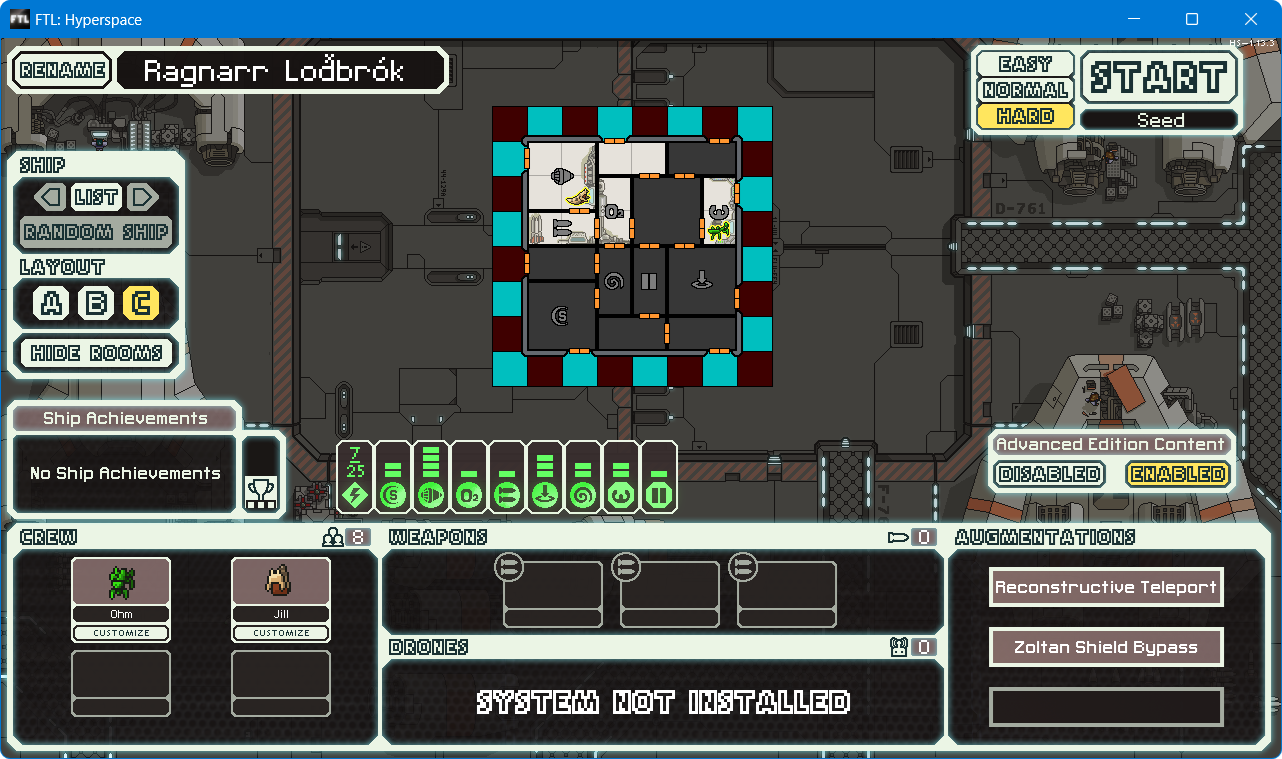
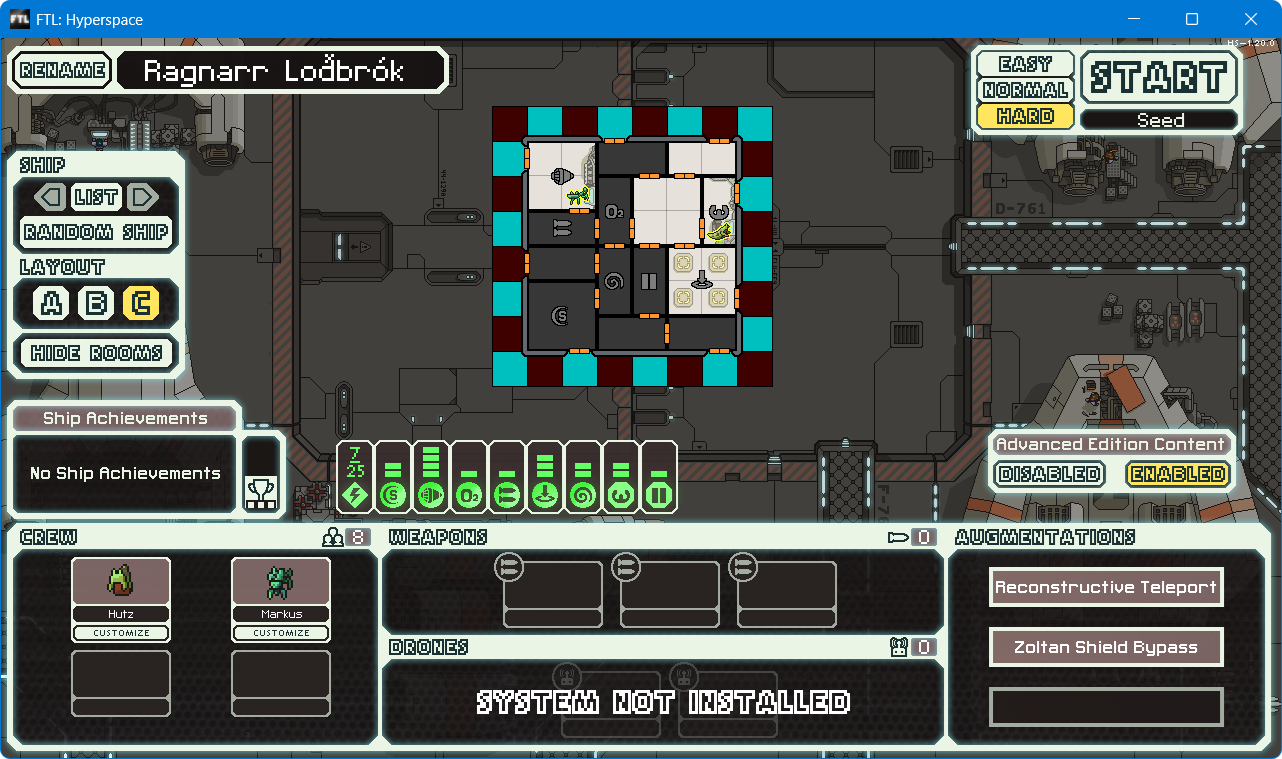
Swapped Mantis and Slug on Square C. Release 1.8

diff --git a/README.md b/README.md
@@ -1,5 +1,5 @@
 # SquareCruiser
-Mod that adds the Square Cruiser to the game FTL: Faster Than Light. Latest version: 1.7.2
+Mod that adds the Square Cruiser to the game FTL: Faster Than Light.
 
 Requires the [Hyperspace mod](https://github.com/FTL-Hyperspace/FTL-Hyperspace) for the multi-page ship list, as it does not replace any vanilla ship. Hyperspace also has a fix for the "WEAPONS" and "AUTOFIRE" graphics overlapping for ships with 2 or less max weapons, applicable for Square B.
 
@@ -82,7 +82,7 @@ Square C (Ragnarr Loðbrók): Boarding focus. "This ship goes all-in with the bo
 <table>
 	<tr>
 		<td>Crew</td>
-		<td>1 Mantis, 1 Slug</td>
+		<td>1 Slug, 1 Mantis</td>
 	</tr>
 	<tr>
 		<td>Systems by Level</td>
